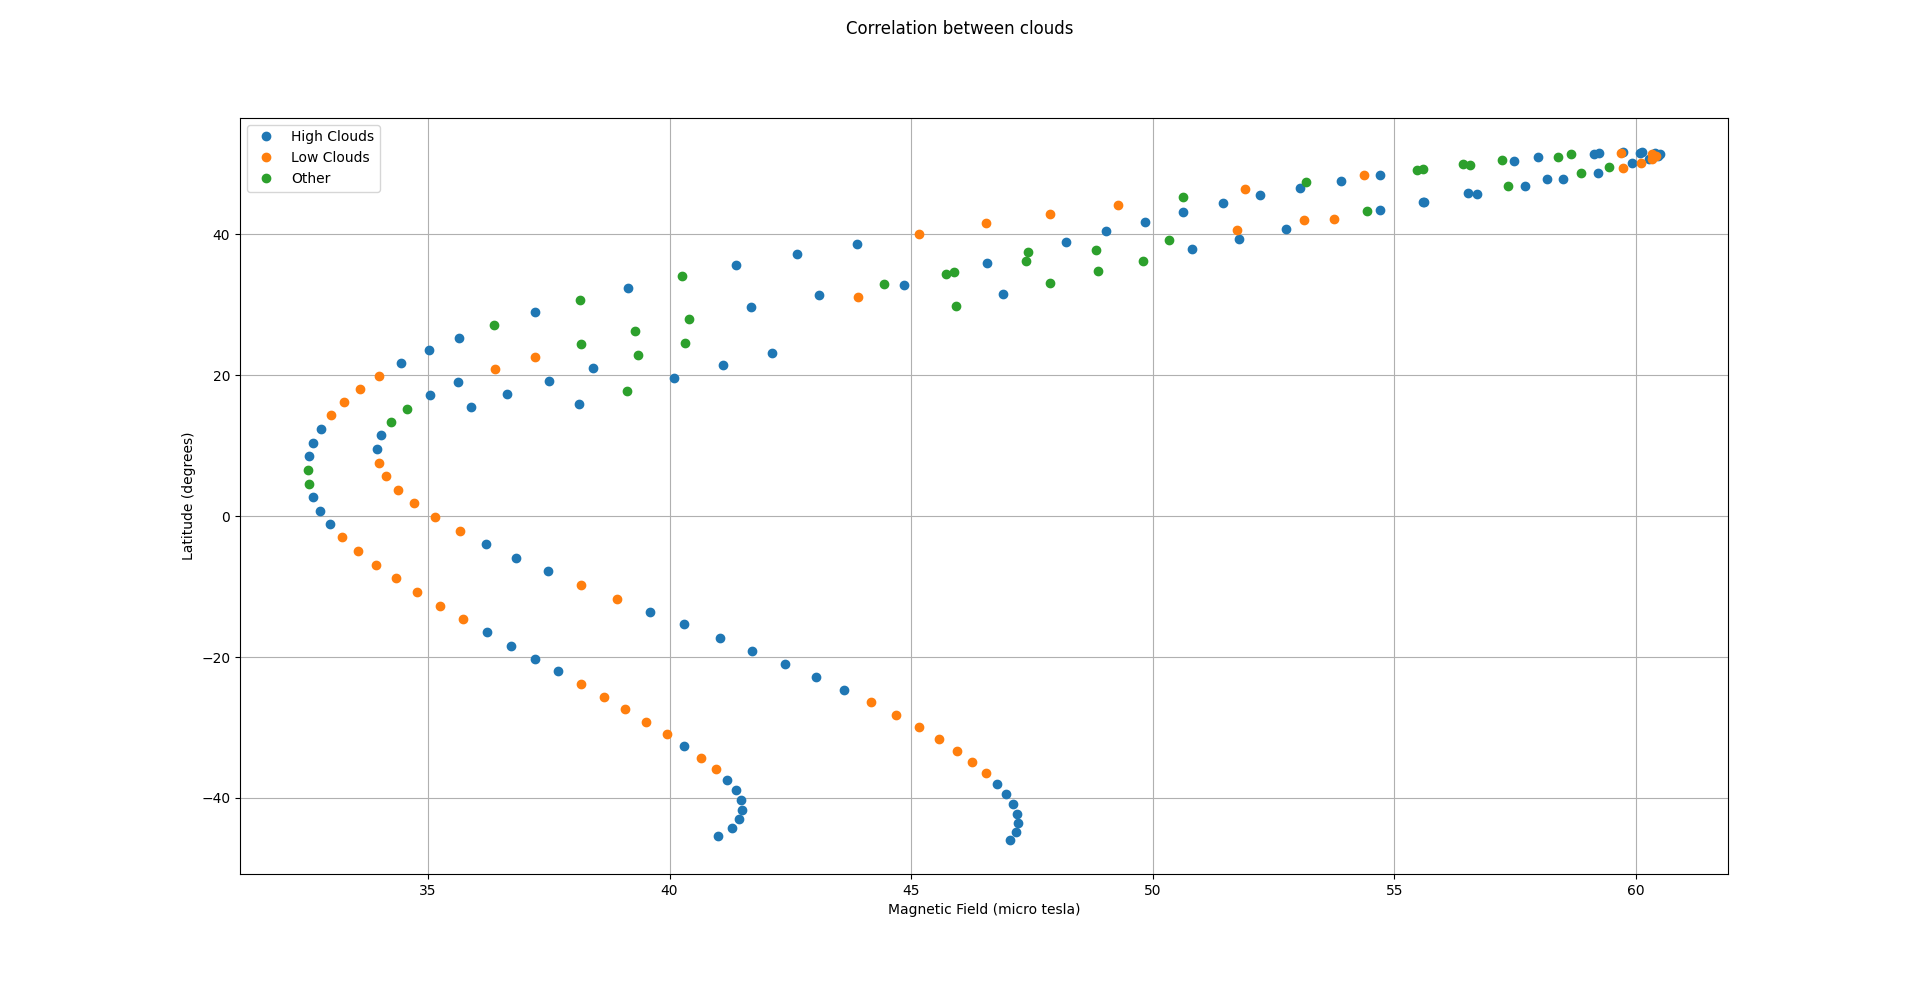
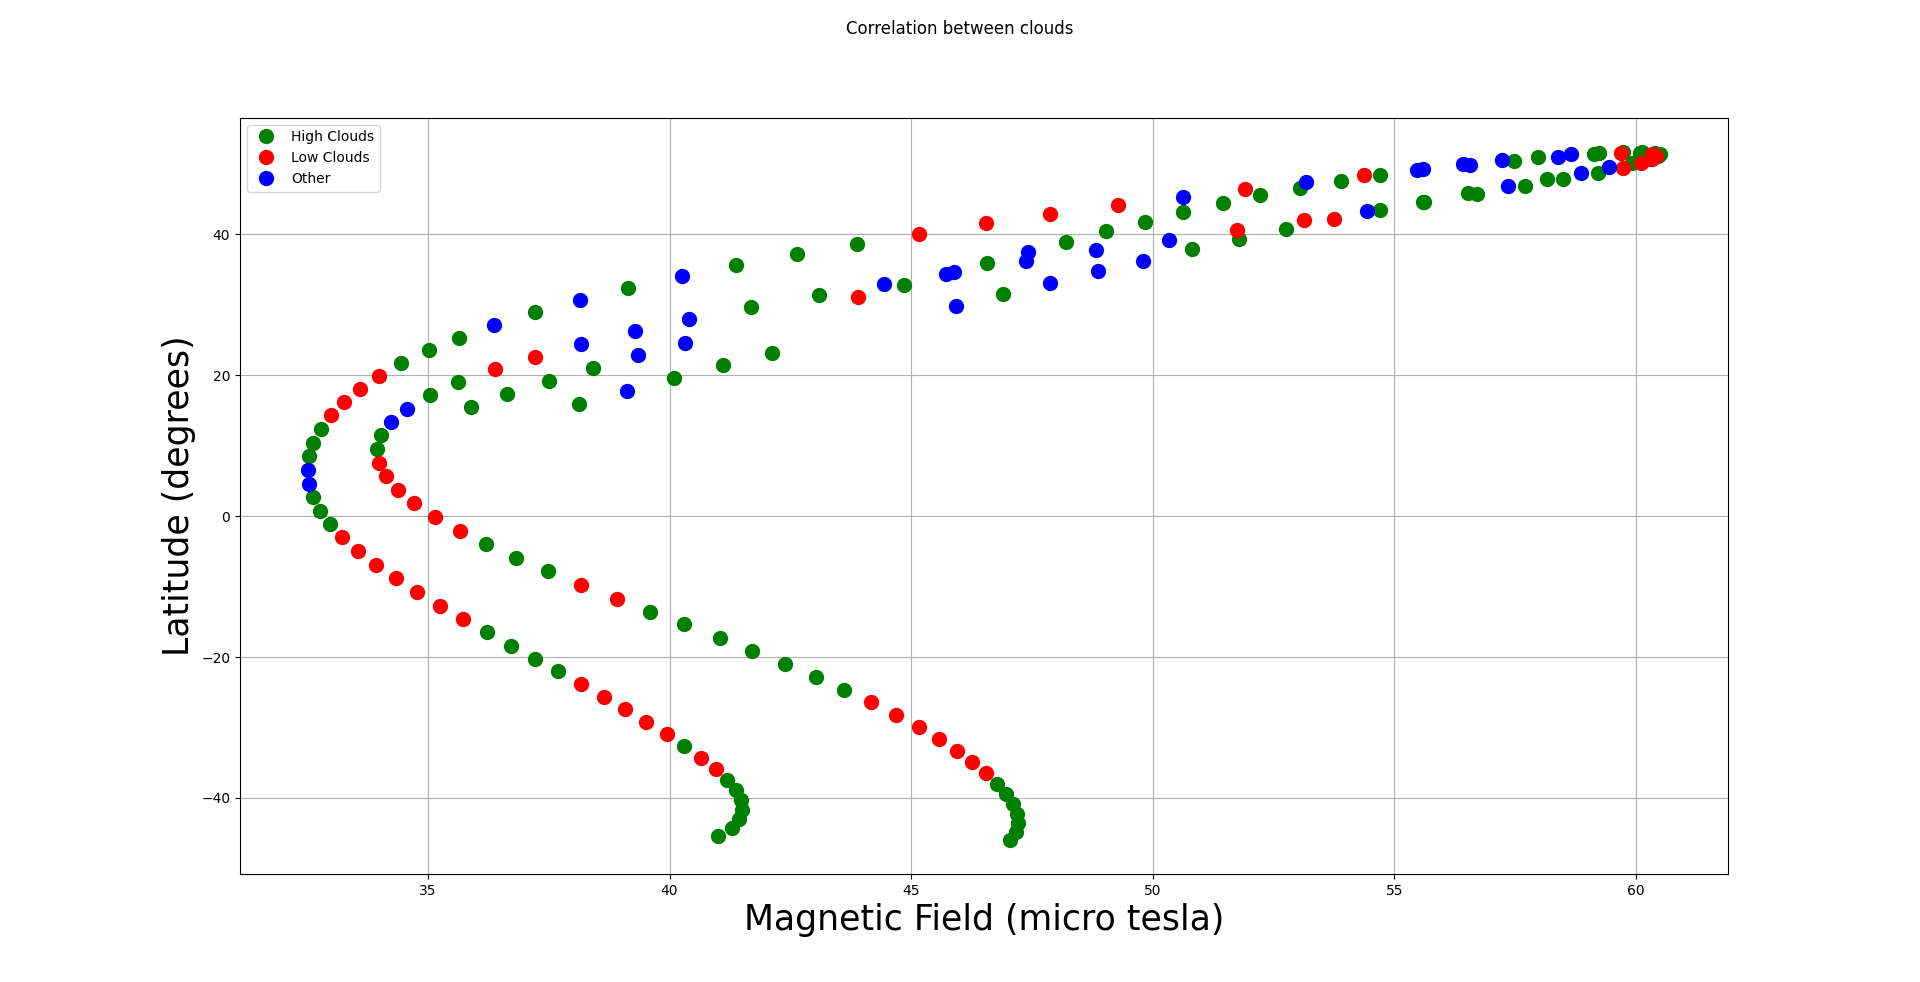
Add files via upload

diff --git a/code/verification_correlation.py b/code/verification_correlation.py
@@ -200,13 +200,13 @@ def creazioneGrafico(dizionario_dati):
     fig, ax = plt.subplots(1, 1)
     fig.suptitle("Correlation between clouds")
 
-    ax.plot(high_campo_magn, high_lat, 'o', label="High Clouds")
-    ax.plot(low_campo_magn, low_lat, 'o', label="Low Clouds")
-    ax.plot(other_campo_magn, other_lat, 'o', label="Other")
+    ax.plot(high_campo_magn, high_lat, 'o', markersize=10, label="High Clouds", color="green")
+    ax.plot(low_campo_magn, low_lat, 'o', markersize=10, label="Low Clouds", color="red")
+    ax.plot(other_campo_magn, other_lat, 'o', markersize=10, label="Other", color="blue")
 
     plt.grid(True)
-    ax.set_ylabel("Latitude (degrees)")
-    ax.set_xlabel("Magnetic Field (micro tesla)")
+    ax.set_ylabel("Latitude (degrees)", fontsize=25)
+    ax.set_xlabel("Magnetic Field (micro tesla)", fontsize=25)
     ax.legend()
 
     dizionario_dati["colori"] = colori
@@ -221,7 +221,7 @@ def graficoPlanisfero(df):
 
     ax = world.plot(color='white', edgecolor='black', figsize=(40,40))
 
-    gdf.plot(ax=ax, marker="o", markersize=15, color = df["colori"])
+    gdf.plot(ax=ax, marker="o", markersize=30, color = df["colori"])
 
 
 if __name__ == "__main__":
